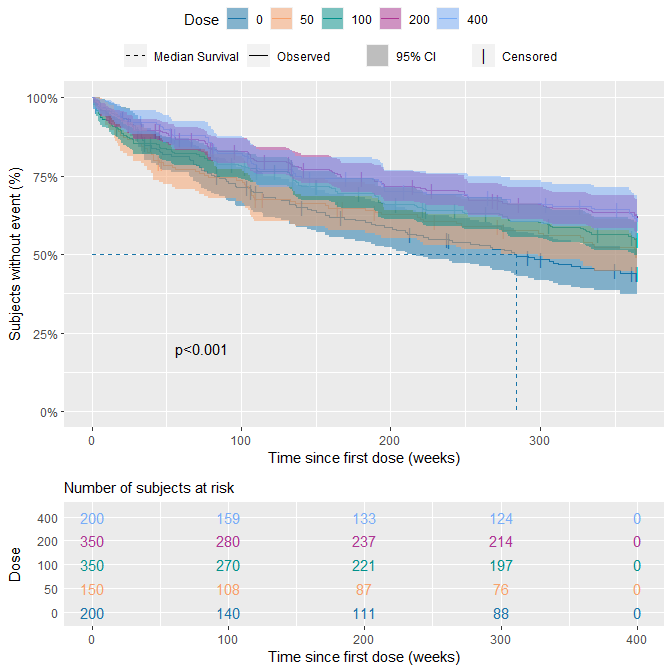
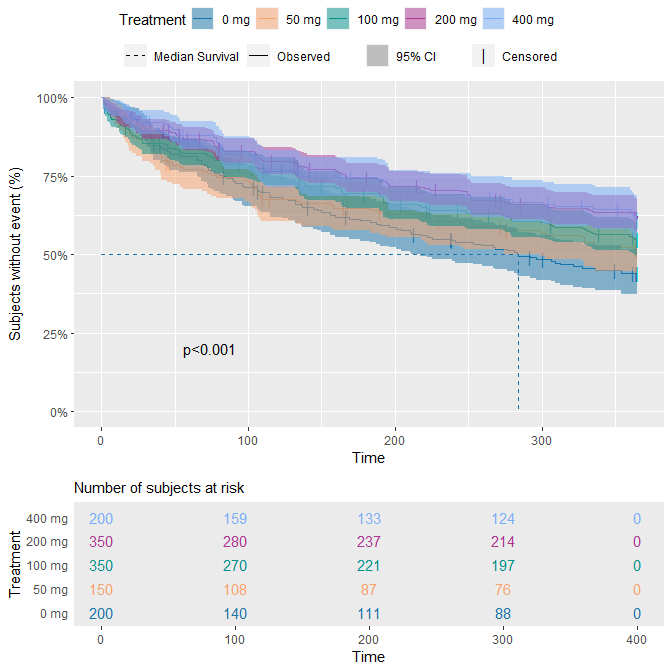
TRTF, not DOSE

diff --git a/README.md b/README.md
@@ -28,12 +28,12 @@ install.packages("path_to_release.tar.gz")
 
 ``` r
 tte1data <- rttedata %>% filter_xth_event(1)
-tte1data$DOSEF <- as.factor(tte1data$DOSEN)
+tte1data$TRTF <- factor(paste(tte1data$TRTN, "mg"), levels = paste(sort(unique(tte1data$TRTN)), "mg"))
 ggKAP(
   tte1data,
   time_var = "TSFDD", 
-  color_var = "DOSEF", 
-  label_color = "Dose"
+  color_var = "TRTF", 
+  label_color = "Treatment"
 )
 ```
 
